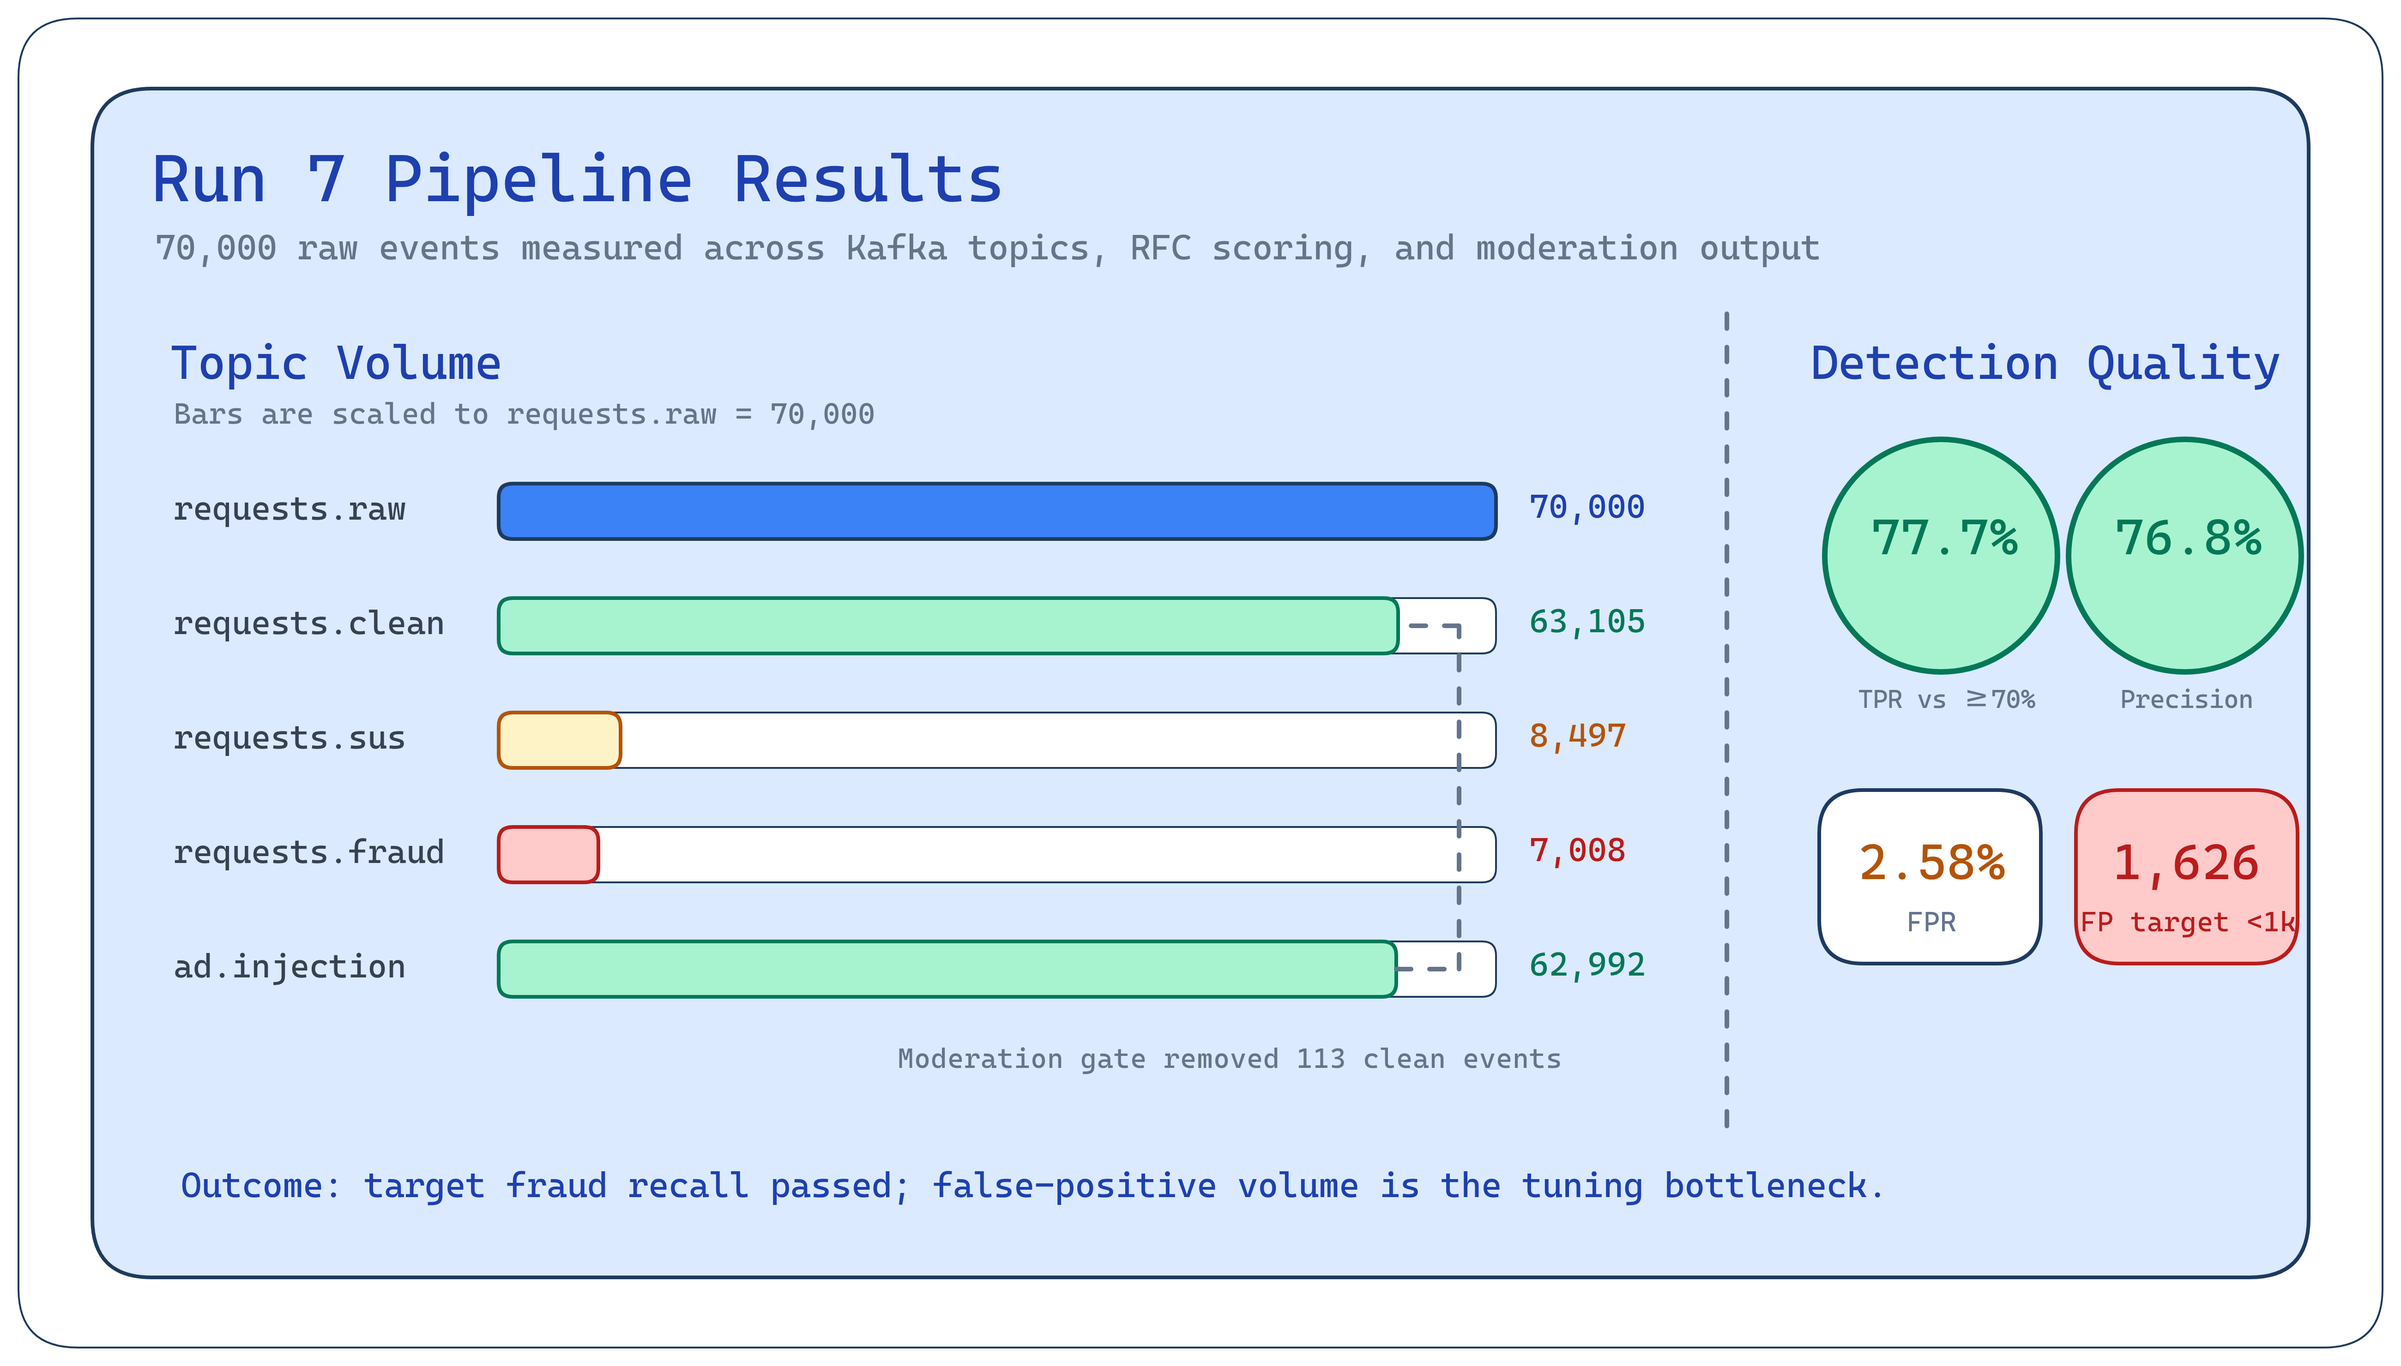
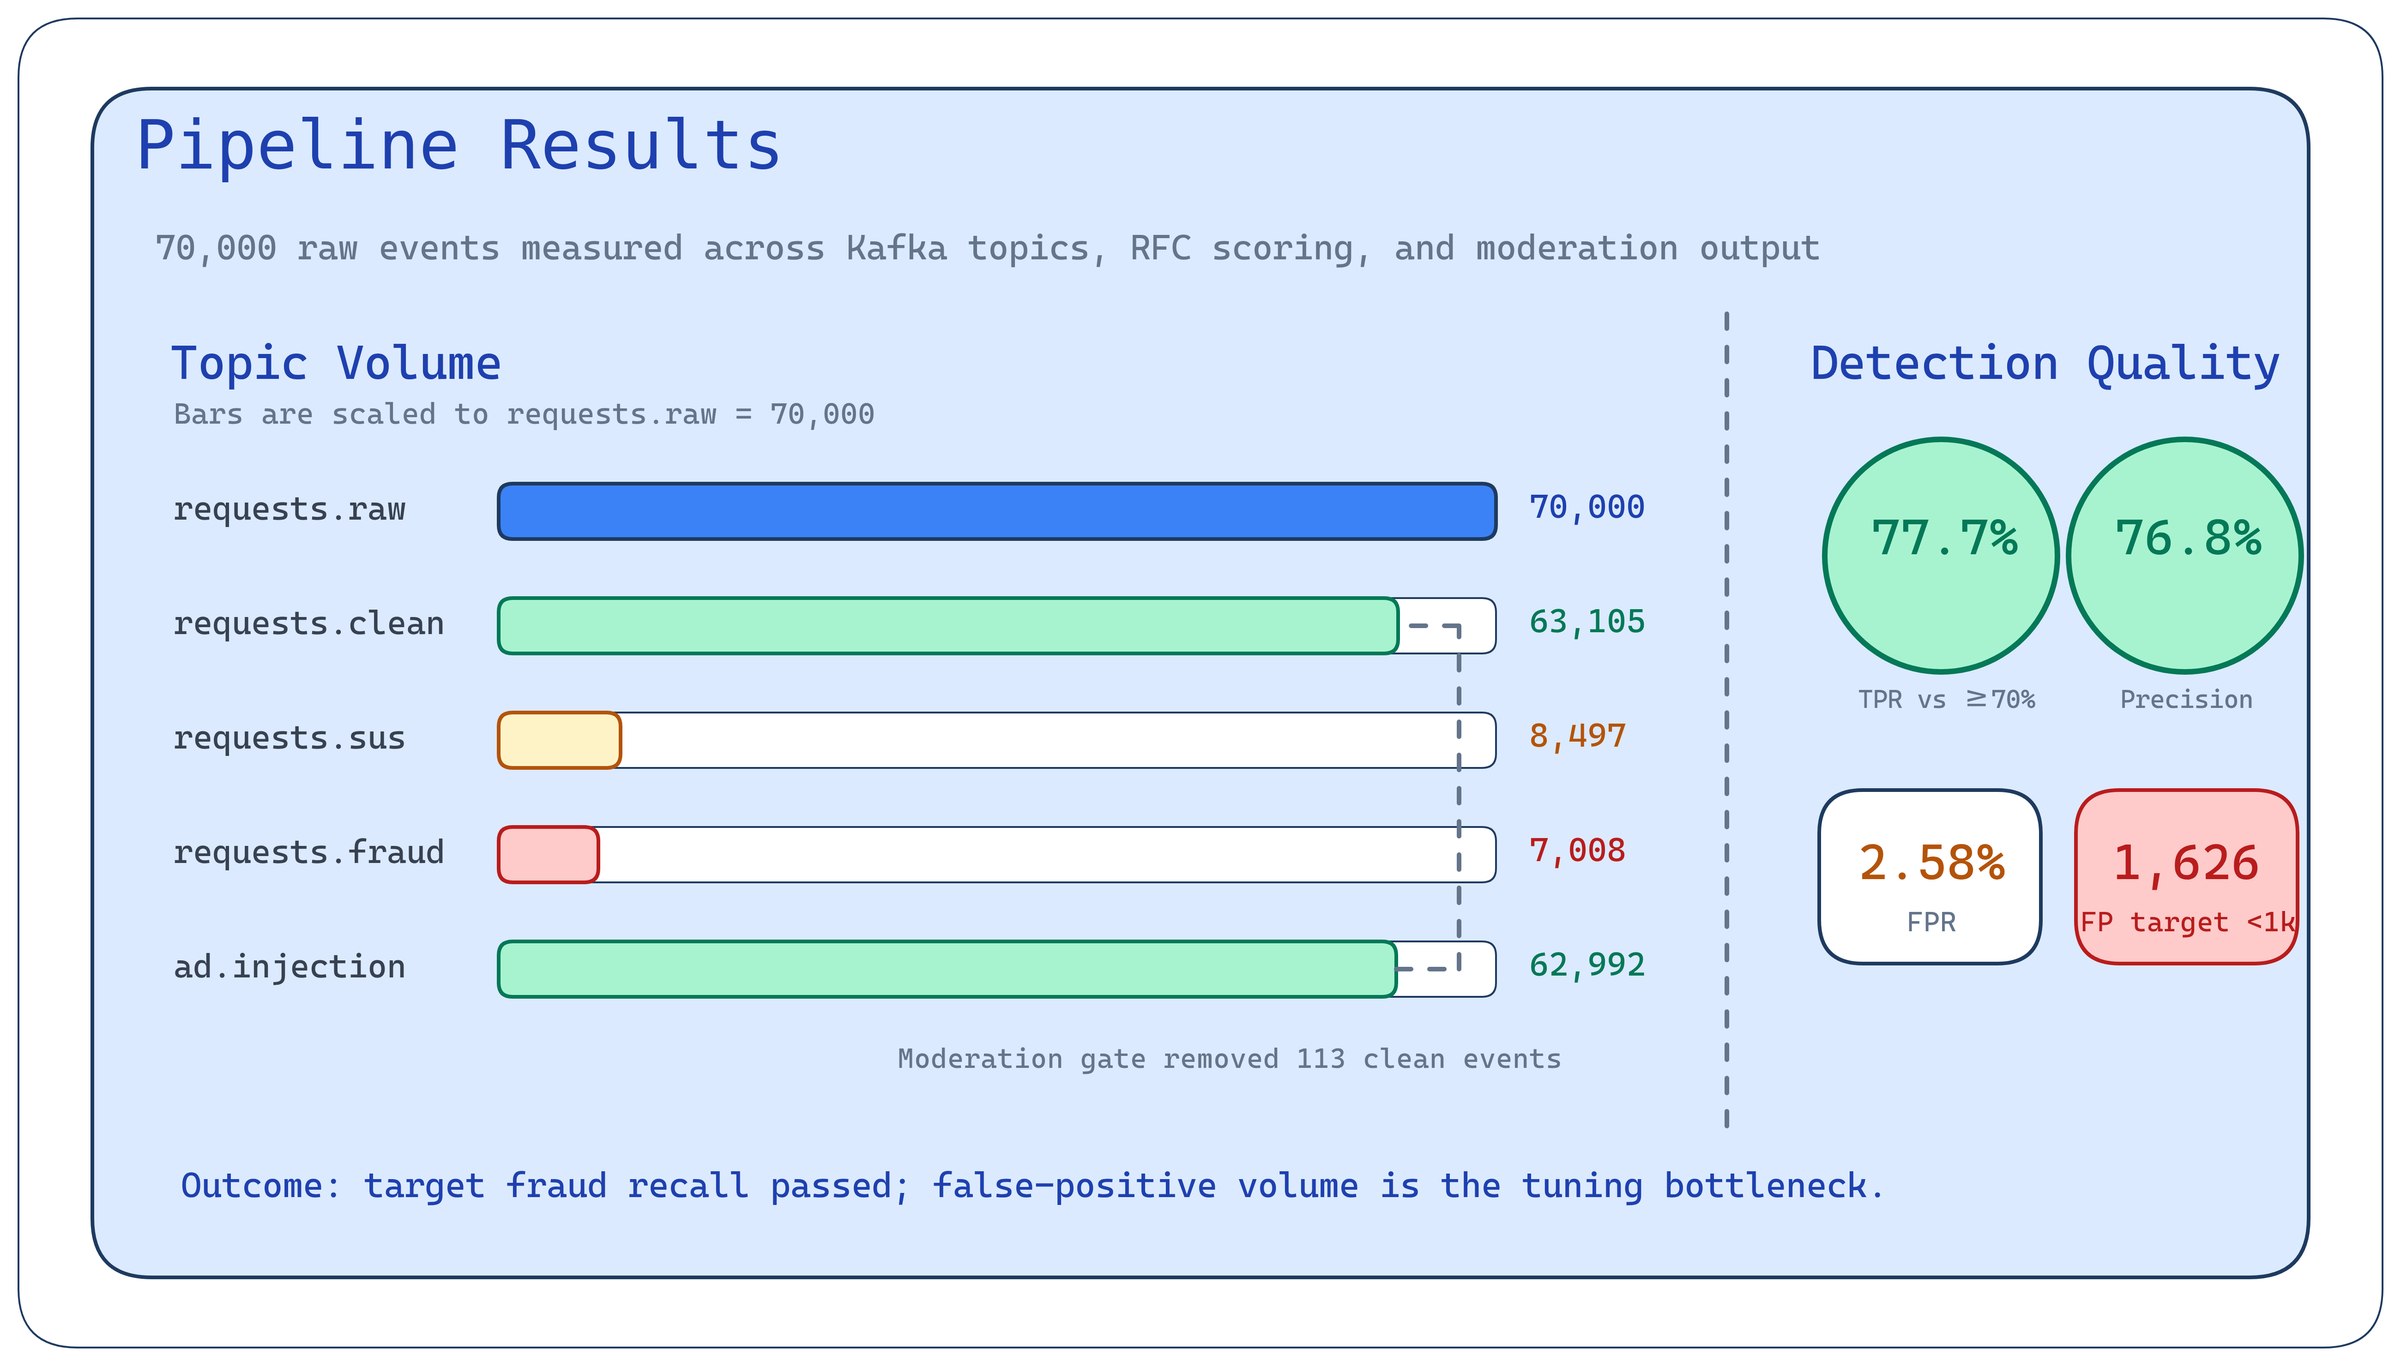
content: add authors and service metrics

Changed region(s): [[0.0623, 0.0932, 0.4362, 0.1554]]

diff --git a/index.html b/index.html
@@ -91,6 +91,22 @@
           </div>
           <i class="fa-solid fa-external-link-alt"></i>
         </a>
+        <a href="https://github.com/smileska" class="work-item" target="_blank" rel="noopener">
+          <div class="work-info">
+            <h5>GitHub &mdash; Eva Smileska</h5>
+            <p>Project author and collaborator</p>
+            <span class="work-venue">@smileska</span>
+          </div>
+          <i class="fa-solid fa-external-link-alt"></i>
+        </a>
+        <a href="https://github.com/gotch27" class="work-item" target="_blank" rel="noopener">
+          <div class="work-info">
+            <h5>GitHub &mdash; Gorazd Filipovski</h5>
+            <p>Project author and collaborator</p>
+            <span class="work-venue">@gotch27</span>
+          </div>
+          <i class="fa-solid fa-external-link-alt"></i>
+        </a>
       </div>
     </div>
   </div>
@@ -112,9 +128,11 @@
               stream routing, prompt moderation, and offline risk-model training.
             </p>
 
-            <div class="hero-meta" aria-label="Project author and affiliation">
+            <div class="hero-meta" aria-label="Project authors and affiliation">
               <div class="hero-author-row">
-                <a href="https://github.com/IamMistake" target="_blank" rel="noopener">Nikola Jagurinoski</a>
+                <a href="https://github.com/IamMistake" target="_blank" rel="noopener">Nikola Jagurinoski*</a>
+                <a href="https://github.com/smileska" target="_blank" rel="noopener">Eva Smileska*</a>
+                <a href="https://github.com/gotch27" target="_blank" rel="noopener">Gorazd Filipovski*</a>
               </div>
               <div class="hero-affiliation-row">
                 <span><sup>1</sup> FINKI, University of Ss. Cyril and Methodius</span>
@@ -122,6 +140,9 @@
               <div class="hero-contact-row">
                 <a href="mailto:jagurinoskini@gmail.com"><i class="fa-regular fa-envelope"></i>
                   jagurinoskini@gmail.com</a>
+                <a href="mailto:esmileska7@gmail.com"><i class="fa-regular fa-envelope"></i> esmileska7@gmail.com</a>
+                <a href="mailto:gorazdfilipovski@gmail.com"><i class="fa-regular fa-envelope"></i>
+                  gorazdfilipovski@gmail.com</a>
               </div>
             </div>
 
@@ -273,6 +294,44 @@
           </div>
         </div>
 
+        <div class="result-table-card">
+          <div class="result-card-head">
+            <span>Service Performance</span>
+            <strong>Throughput + Precision</strong>
+          </div>
+          <table class="rm-table compact-results-table">
+            <thead>
+              <tr>
+                <th>Service</th>
+                <th>Throughput</th>
+                <th>Precision</th>
+              </tr>
+            </thead>
+            <tbody>
+              <tr>
+                <td>Kafka</td>
+                <td><strong>13k+ req/s</strong></td>
+                <td>N/A</td>
+              </tr>
+              <tr>
+                <td>Flink Fraud Detection</td>
+                <td><strong>3,000-4,000 req/s</strong></td>
+                <td><strong>75%+</strong></td>
+              </tr>
+              <tr>
+                <td>RFC Service</td>
+                <td><strong>5-7k req/s</strong></td>
+                <td><strong>95%+</strong></td>
+              </tr>
+              <tr>
+                <td>Moderation</td>
+                <td><strong>7k req/s</strong></td>
+                <td><strong>99%+</strong></td>
+              </tr>
+            </tbody>
+          </table>
+        </div>
+
         <div class="flow-steps">
           <div class="flow-step" style="--fs-color:#14b8a6">
             <span class="fs-num">1</span>
@@ -280,7 +339,8 @@
               <h4>Live Request Stream</h4>
               <p>Streams real ad request traffic from WildChat (175k real GPT conversations) via
                 <code>kafka/producers/requests_sender.py</code>. Fraud injectors append synthetic attack
-                patterns for controlled evaluation across 7 fraud tactics.</p>
+                patterns for controlled evaluation across 7 fraud tactics.
+              </p>
             </div>
           </div>
           <div class="flow-step" style="--fs-color:#f59e0b">
@@ -309,7 +369,8 @@
               <h4>RFC Scoring</h4>
               <p>Consumes <code>requests.sus</code> and applies the Spark-trained RandomForest model to score suspicious
                 requests. Cleared requests route to <code>requests.clean</code>; confirmed fraud routes to
-                <code>requests.fraud</code>. Achieves <strong>99.7% SUS F1 score</strong> on the full 70k dataset.</p>
+                <code>requests.fraud</code>. Achieves <strong>99.7% SUS F1 score</strong> on the full 70k dataset.
+              </p>
             </div>
           </div>
           <div class="flow-step" style="--fs-color:#f43f5e">
@@ -476,14 +537,17 @@
           <p><strong>1. Export.</strong> <code>spark_service/historical_exporter.py</code> consumes
             <code>requests.clean</code>, <code>requests.sus</code>, and <code>requests.fraud</code> topics,
             joins each event with its offline <code>is_fraud</code> label by <code>req_id</code>,
-            and writes <code>spark_service/data/request_logs.json</code>.</p>
+            and writes <code>spark_service/data/request_logs.json</code>.
+          </p>
           <p><strong>2. Train.</strong> <code>spark_service/spark_training.py</code> reads exported rows,
             extracts 6 numeric features from the <code>feature_event</code> schema, and trains a
-            <code>RandomForestClassifier</code> (100 trees, scikit-learn).</p>
+            <code>RandomForestClassifier</code> (100 trees, scikit-learn).
+          </p>
           <p><strong>3. Deploy.</strong> Model artifacts are written to <code>spark_service/output/</code>:
             <code>fraud_model.joblib</code>, <code>feature_columns.json</code>,
             <code>model_metrics.json</code>, and <code>training_features/</code>.
-            The RFC scoring service loads <code>fraud_model.joblib</code> at startup.</p>
+            The RFC scoring service loads <code>fraud_model.joblib</code> at startup.
+          </p>
         </div>
 
         <div class="spark-grid">
@@ -522,19 +586,19 @@
         <span class="rm-eyebrow"><i class="fa-solid fa-chart-bar"></i> Evaluation</span>
         <h2 class="rm-section-title">Pipeline Results</h2>
         <p class="rm-section-sub">
-          Run 7: 70,000-request end-to-end pipeline test (6,914 fraud, 63,086 clean) across
+          70,000-request end-to-end pipeline test (6,914 fraud, 63,086 clean) across
           Flink + RFC scoring + Moderation gate.
         </p>
 
         <div class="results-showcase">
           <div class="result-chart-card">
             <div class="result-card-head">
-              <span>Run 7 Flow</span>
+              <span>Pipeline Flow</span>
               <strong>70,000 events</strong>
             </div>
             <figure>
               <img src="assets/diagrams/pipeline-results.png" class="chart-svg"
-                alt="Excalidraw chart of Run 7 pipeline results showing topic volumes and detection quality metrics."
+                alt="Excalidraw chart of pipeline results showing topic volumes and detection quality metrics."
                 loading="lazy">
             </figure>
           </div>
@@ -580,7 +644,7 @@
             <div class="result-table-card">
               <div class="result-card-head">
                 <span>Quality Gates</span>
-                <strong>Run 7</strong>
+                <strong>Final</strong>
               </div>
               <table class="rm-table compact-results-table">
                 <thead>
@@ -623,8 +687,8 @@
             <li>77.7% TPR meets the &ge;70% target. 5,374 of 6,914 fraud requests caught by Flink; RFC caught
               1,836 more from 8,497 suspicious events.</li>
             <li>FP overshoot (1,626 vs 1,000 target) comes from behavioral rules accumulating false positives
-              on clean traffic at scale. Tighter publisher thresholds reduced FP in Run 6 (157 FP) but Run 7
-              added moderation gate which introduced additional false positives.</li>
+              on clean traffic at scale. Tighter publisher thresholds reduced FP in earlier tests, while the final
+              evaluation added a moderation gate that introduced additional false positives.</li>
             <li>Moderation flagged 113 prompts via bad-term matching (63,105 clean &minus; 62,992 ad.injection).</li>
             <li>Per-attack TPR ranges from 100% (publisher_burst) to 6.3% (slow_prompt_replay) &mdash;
               the weakest attacks need stronger signals.</li>
@@ -652,7 +716,8 @@
             <p>Controlled attack patterns injected into the clean WildChat base:
               <code>publisher_burst</code>, <code>geo_mismatch</code>, <code>session_farm</code>,
               <code>regular_cadence</code>, <code>slow_distributed_abuse</code>, <code>ua_rotation</code>,
-              <code>slow_prompt_replay</code>.</p>
+              <code>slow_prompt_replay</code>.
+            </p>
           </div>
         </div>
       </div>
@@ -670,29 +735,29 @@
             <div class="qs-icon"><i class="fa-solid fa-box"></i></div>
             <h4>Prerequisites</h4>
             <pre><code class="language-bash"># Python 3.10+ / Docker + Compose
-pip install -r requirements.txt
-docker-compose up -d</code></pre>
+                pip install -r requirements.txt
+                docker-compose up -d</code></pre>
           </div>
           <div class="qs-card">
             <div class="qs-icon"><i class="fa-solid fa-terminal"></i></div>
             <h4>Run Pipeline</h4>
             <pre><code class="language-bash"># 5 terminals:
-python kafka/producers/requests_sender.py
-python flink_service/fraud_detection.py
-python moderation_service/moderation_consumer.py
-python scoring_service/rfc_scoring_service.py
-python pipeline_consumers/ad_injection_consumer.py</code></pre>
+                python kafka/producers/requests_sender.py
+                python flink_service/fraud_detection.py
+                python moderation_service/moderation_consumer.py
+                python scoring_service/rfc_scoring_service.py
+                python pipeline_consumers/ad_injection_consumer.py</code></pre>
           </div>
           <div class="qs-card">
             <div class="qs-icon"><i class="fa-solid fa-microchip"></i></div>
             <h4>Test &amp; Train</h4>
             <pre><code class="language-bash"># Start all services in tmux:
-bash scripts/start_pipeline_tmux.sh
+                bash scripts/start_pipeline_tmux.sh
 
-# Or manual smoke test:
-./scripts/test_full_pipeline.sh
-python spark_service/historical_exporter.py
-python spark_service/spark_training.py</code></pre>
+                # Or manual smoke test:
+                ./scripts/test_full_pipeline.sh
+                python spark_service/historical_exporter.py
+                python spark_service/spark_training.py</code></pre>
           </div>
         </div>
       </div>

diff --git a/js/pipeline.js b/js/pipeline.js
@@ -16,22 +16,21 @@
     },
     kafka: {
       title: 'Kafka Topics',
-      desc: 'Five topics decouple all pipeline stages: <code>requests.raw</code> (ingress), <code>requests.sus</code> (suspicious awaiting RFC scoring), <code>requests.clean</code> (fraud-clean for moderation), <code>requests.fraud</code> (blocked events), and <code>ad.injection</code> (approved requests). Single-broker dev mode via Docker Compose.',
+      desc: 'Five topics decouple all pipeline stages: <code>requests.raw</code> (ingress), <code>requests.sus</code> (suspicious awaiting RFC scoring), <code>requests.clean</code> (fraud-clean for moderation), <code>requests.fraud</code> (blocked events), and <code>ad.injection</code> (approved requests). Single-broker dev mode via Docker Compose. Throughput: <strong>13k+ req/s</strong>. Precision: <strong>N/A</strong>.',
       file: 'docker-compose.yml'
     },
     flink: {
       title: 'Flink Fraud Detection',
-      desc: 'Real-time stream processor consuming <code>requests.raw</code>. Assigns event-time watermarks, then keys the stream through three detectors: UserDetector (IP burst) &rarr; SessionDetector (6 rules: burst, IP churn, country hop, ASN churn, prompt replay, regular cadence) &rarr; PublisherDetector (3 rules: burst, suspicious rate, bad UA rate). Plus 4 stateless rules for shallow checks. Routes by score threshold.',
+      desc: 'Real-time stream processor consuming <code>requests.raw</code>. Assigns event-time watermarks, then keys the stream through three detectors: UserDetector, SessionDetector, and PublisherDetector. Plus stateless rules for shallow checks. Routes by score threshold. Throughput: <strong>3,000-4,000 req/s</strong>. Precision: <strong>75%+</strong>.',
       file: 'flink_service/fraud_detection.py'
     },
     rfc: {
       title: 'RFC Scoring Service',
-      desc: 'Planned service that consumes <code>requests.sus</code> and applies the Spark-trained RandomForest model to score suspicious requests. Not yet implemented. Cleared requests go to <code>requests.clean</code>; confirmed fraud goes to <code>requests.fraud</code>.',
-      planned: true
+      desc: 'Consumes <code>requests.sus</code> and applies the Spark-trained RandomForest model to score suspicious requests. Cleared requests go to <code>requests.clean</code>; confirmed fraud goes to <code>requests.fraud</code>. Throughput: <strong>5-7k req/s</strong>. Precision: <strong>95%+</strong>.'
     },
     moderation: {
       title: 'Moderation Service',
-      desc: 'Consumes <code>requests.clean</code> and analyzes prompt content for safety. Supports two modes: <strong>mock</strong> (rule-based keyword analysis, TF-IDF gating) and <strong>OpenAI</strong> (calls <code>omni-moderation-latest</code> API). Prompt caching via SHA256 hash. Routes clean to <code>ad.injection</code>, unsafe to <code>requests.fraud</code>.',
+      desc: 'Consumes <code>requests.clean</code> and analyzes prompt content for safety. Supports two modes: <strong>mock</strong> (rule-based keyword analysis, TF-IDF gating) and <strong>OpenAI</strong> (calls <code>omni-moderation-latest</code> API). Prompt caching via SHA256 hash. Routes clean to <code>ad.injection</code>, unsafe to <code>requests.fraud</code>. Throughput: <strong>7k req/s</strong>. Precision: <strong>99%+</strong>.',
       file: 'pipeline_consumers/moderation_consumer.py'
     },
     spark: {

diff --git a/css/style.css b/css/style.css
@@ -816,6 +816,10 @@ section[id] {
   gap: 24px;
 }
 
+.pipeline-container + .result-table-card {
+  margin-top: 1.5rem;
+}
+
 .pipeline-figure {
   width: 100%;
   max-width: 860px;
